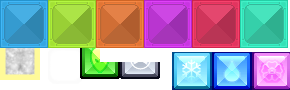
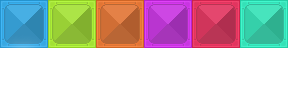
new SELECTED mask

diff --git a/tile.cpp b/tile.cpp
@@ -154,7 +154,7 @@ void cScore::saveScores()
 	}
 	saveHighScore();
 }
-void cScore::enterPlayerName(int keycode, int unichar)
+bool cScore::enterPlayerName(int keycode, int unichar)
 {
 	if (keycode <= ALLEGRO_KEY_9 || keycode == ALLEGRO_KEY_SPACE) //if A-Z and 0-9 pressed or spacebar
 		if (al_ustr_length(edited_text) < MAX_USERNAME_LENGTH) al_ustr_append_chr(edited_text, unichar);
@@ -168,7 +168,9 @@ void cScore::enterPlayerName(int keycode, int unichar)
 		player_name = edited_text;
 		saveScores();
 		//game_state = MAIN_MENU;
+		return true;
 	}
+	return false;
 }
 void cScore::saveHighScore()
 {
@@ -208,6 +210,7 @@ void cScore::loadHighScore()
 //=====cTile methods
 void cTile::create(sPoint position, int _color,int _state)
 {
+	maskOpacity = 0.0;
 	x = position.x;
 	y = position.y;
 	state = _state;
@@ -221,7 +224,7 @@ void cTile::create(sPoint position, int _color,int _state)
 	selected = false;
 	screen_shake = 0;
 	if (_state == MOVING)						{	distance += BRICK_SIZE;	}
-	if (state == EXPLODING || state==SELECTED)	{	isAnimating = true;		}
+	if (state == EXPLODING || state == SELECTED) { isAnimating = true;	maskOpacity = 1.0; }
 	if (state == EXPLODING) { curFrame = rand() % MIN_FRAME; }
 	posX = x*BRICK_SIZE + distance + screen_shake;
 	posY = y*BRICK_SIZE + screen_shake + TOP_MARGIN;
@@ -254,6 +257,10 @@ int cTile::update()
 	if (state == EXPLODING || state == SELECTED)
 	{
 		screen_shake = (rand() % 2) - 1; // -3 to 3 pixels in both directions
+		if(fadeIn) maskOpacity += OPACITY_INCREASE;
+		else maskOpacity -= OPACITY_INCREASE;
+		if (maskOpacity >= 1.0) { fadeIn = false; maskOpacity = 1.0; }
+		if (maskOpacity <= 0.0) { fadeIn = true; maskOpacity = 0.0; }
 	}
 	else { screen_shake = 0.0; }
 
@@ -289,7 +296,9 @@ void cTile::draw(cBitmaps& bitmap)
 	}
 	if (animationDelay == 0)
 	{
-		if (state == SELECTED)		{		al_draw_bitmap_region(bitmap.bricksPNG, 0, BRICK_SIZE, BRICK_SIZE, BRICK_SIZE, posX, posY, NULL);		}
+		if (state == SELECTED)		{		//al_draw_bitmap_region(bitmap.bricksPNG, 0, BRICK_SIZE, BRICK_SIZE, BRICK_SIZE, posX, posY, NULL);		
+		al_draw_tinted_scaled_bitmap(bitmap.bricksPNG,al_map_rgba_f(maskOpacity,maskOpacity,maskOpacity,maskOpacity),0,BRICK_SIZE, BRICK_SIZE, BRICK_SIZE, posX, posY,BRICK_SIZE,BRICK_SIZE, NULL);
+		}
 		if (state == EXPLODING)
 		{
 			al_draw_bitmap_region(bitmap.explosionPNG, 240 * curFrame, 240 * color, 240, 240, posX - (BRICK_SIZE * 2), posY - (BRICK_SIZE * 2), NULL);//posX - (BRICK_SIZE * 2 + BRICK_SIZE / 2), posY - (BRICK_SIZE * 2 + BRICK_SIZE / 2), NULL);

diff --git a/game.cpp b/game.cpp
@@ -198,7 +198,7 @@ void cGame::update()
 		}
 		else if (event.type == ALLEGRO_EVENT_KEY_CHAR)
 		{
-			if (game_state == SAVING_SCORE) { score.enterPlayerName(event.keyboard.keycode, event.keyboard.unichar); }
+			if (game_state == SAVING_SCORE) { if(score.enterPlayerName(event.keyboard.keycode, event.keyboard.unichar))game_state=MAIN_MENU; }//if enterPlayerName returns true(pressed enter) change game_state to MAIN_MENU
 			if (event.keyboard.keycode == ALLEGRO_KEY_ESCAPE && game_state==PLAY_GAME) { game_state=MAIN_MENU; }
 		}
 		else if (event.type == ALLEGRO_EVENT_TIMER)

diff --git a/tile.h b/tile.h
@@ -39,6 +39,8 @@ protected:
 	int color;
 	int x;
 	int y;
+	float maskOpacity;
+	bool fadeIn;
 public:
 	
 	bool selected;
@@ -62,7 +64,7 @@ private:
 	ALLEGRO_USTR* edited_text = al_ustr_new("");
 	int high_score[MAX_HIGH_SCORE]; //array that holds all high scores
 public:
-	void enterPlayerName(int keycode, int unichar);
+	bool enterPlayerName(int keycode, int unichar);
 	void resetHighScores();//resets and saves new high score file
 	bool is_saved; //if high scores already saved
 	int on_screen;//shown score
